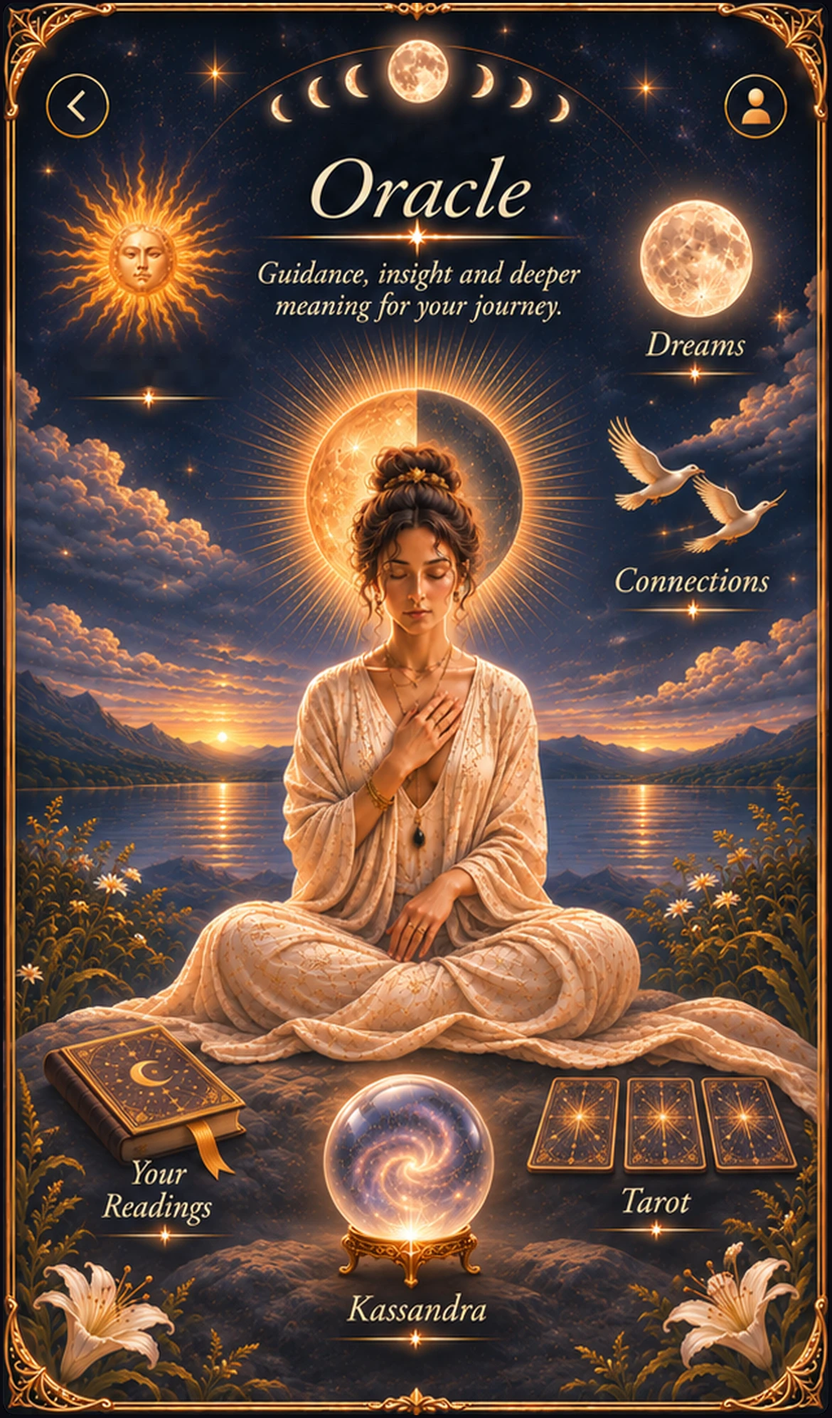
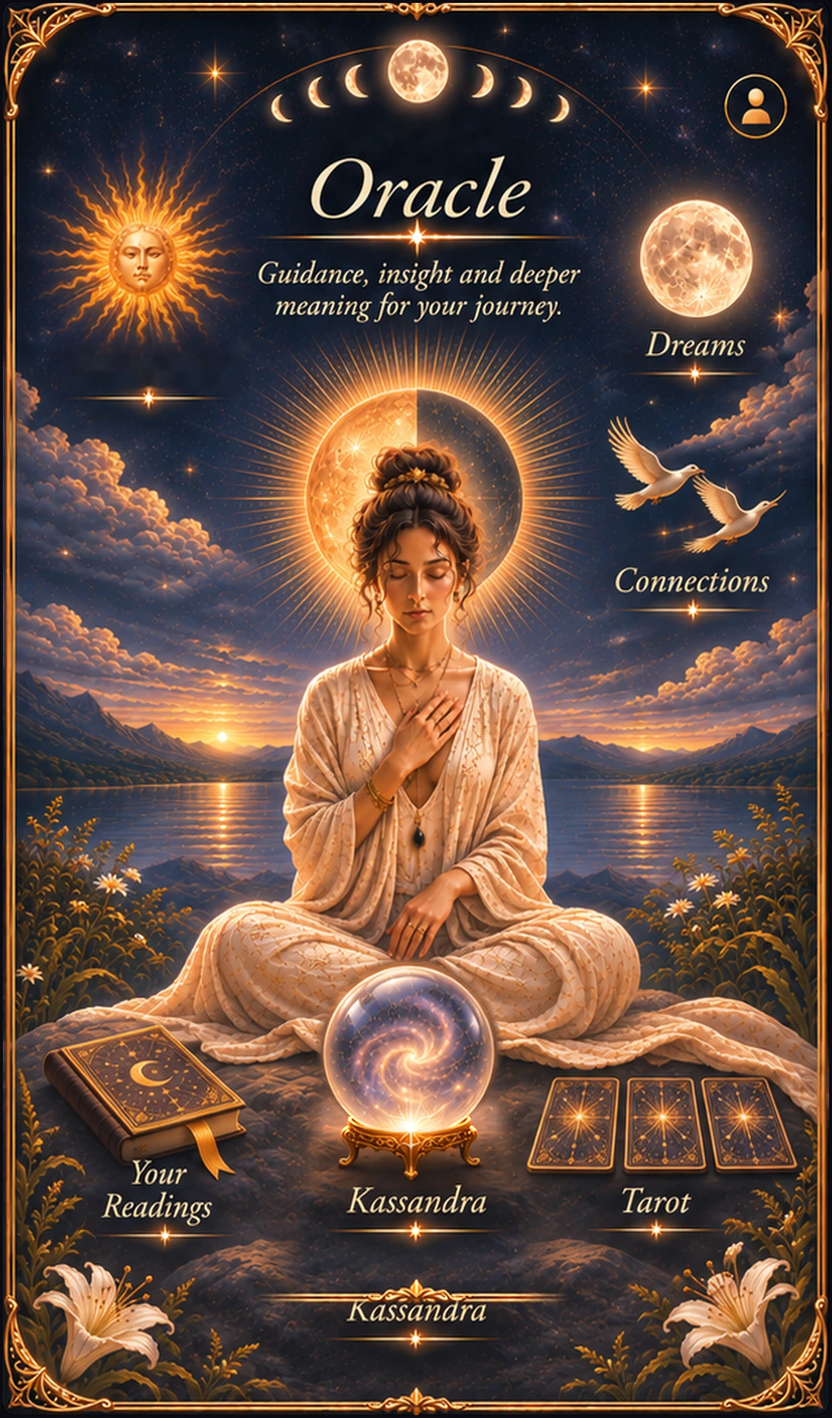
Oracle: the back arrow painted out of the sky; the crystal ball, its stand and the name Kassandra lifted in both paintings so the name reads above the bar

Changed region(s): [[0.3077, 0.6536, 0.6769, 0.9337], [0.0308, 0.0311, 0.1538, 0.0934]]

diff --git a/public/app.js b/public/app.js
@@ -3528,15 +3528,15 @@ function skyHome(){
 // it a little and squeezes it very slightly, its edges melting into the frame's shadow, so all of it stays above the bar
 // two paintings of the one scene, each 1170 wide: A for shorter screens, B for full-height ones; shown at the screen's
 // width, never stretched. Each thing's place [x, y, w, h] in its own painting
-const ORV={a:{h:1992,l:[212,508],hot:{omens:[60,220,300,350],dreams:[880,230,200,290],conn:[840,570,270,290],read:[50,1430,320,300],tarot:[730,1500,390,230],kas:[440,1530,270,350],back:[62,96,96,96],me:[1012,96,96,96]}},
- b:{h:2532,l:[212,630],hot:{omens:[60,300,310,400],dreams:[870,350,210,300],conn:[840,710,280,320],read:[50,1800,330,340],tarot:[690,1870,430,250],kas:[420,1940,290,440],back:[56,128,96,96],me:[1016,128,96,96]}}};
-const ORT={omens:['data-go="discover" data-t="life-path"','Signs and Synchronicity'],dreams:['data-go="discover" data-t="dreams"','Dreams'],conn:['data-go="discover" data-t="affinity"','Connections'],read:['data-act="sheet" data-k="reading"','Your Readings'],tarot:['data-go="tarot" data-t="spreads"','Tarot'],kas:['data-act="kasgo"','Kassandra'],back:['data-nav="home"','Back to the Ritual'],me:['data-go="you"','My Cosmos']};
+const ORV={a:{h:1992,l:[212,508],hot:{omens:[60,220,300,350],dreams:[880,230,200,290],conn:[840,570,270,290],read:[50,1430,320,300],tarot:[730,1500,390,230],kas:[440,1345,270,395],me:[1012,96,96,96]}},
+ b:{h:2532,l:[212,630],hot:{omens:[60,300,310,400],dreams:[870,350,210,300],conn:[840,710,280,320],read:[50,1800,330,340],tarot:[690,1870,430,250],kas:[420,1830,290,445],me:[1016,128,96,96]}}};
+const ORT={omens:['data-go="discover" data-t="life-path"','Signs and Synchronicity'],dreams:['data-go="discover" data-t="dreams"','Dreams'],conn:['data-go="discover" data-t="affinity"','Connections'],read:['data-act="sheet" data-k="reading"','Your Readings'],tarot:['data-go="tarot" data-t="spreads"','Tarot'],kas:['data-act="kasgo"','Kassandra'],me:['data-go="you"','My Cosmos']};
 function oracleHome(){
  const v=innerHeight/Math.min(innerWidth,520)>1.93?'b':'a',P=ORV[v];
  return `<div class="rit or0" role="main" aria-label="Oracle"><div class="rit-in">
   <div class="or-sc" style="height:${P.h}px"><img class="or-bg" src="${SKY}or-${v}.webp" alt="" style="height:${P.h}px">
    <span class="or-l or-l2" style="left:${P.l[0]}px;top:${P.l[1]}px">Signs &amp;<br>Synchronicity</span>
-   ${Object.entries(P.hot).map(([k,[x,y,w,h]])=>`<button class="rit-hot" ${ORT[k][0]} aria-label="${ORT[k][1]}" style="left:${x}px;top:${y}px;width:${w}px;height:${h}px;border-radius:${k==='back'||k==='me'?'50%':'48px'}"></button>`).join('')}
+   ${Object.entries(P.hot).map(([k,[x,y,w,h]])=>`<button class="rit-hot" ${ORT[k][0]} aria-label="${ORT[k][1]}" style="left:${x}px;top:${y}px;width:${w}px;height:${h}px;border-radius:${k==='me'?'50%':'48px'}"></button>`).join('')}
   </div>
   <nav class="rit-nav sk0-nav or-nav" aria-label="Kosmia"><button data-nav="home" aria-label="Ritual"></button><button data-nav="horoscope" aria-label="Sky"></button><button data-nav="tarot" aria-label="Oracle" aria-current="page"></button><button data-nav="calendar" aria-label="Cosmic Calendar"></button><button data-nav="journal" aria-label="Journal"></button></nav>
  </div>${sheetView()}</div>`;
